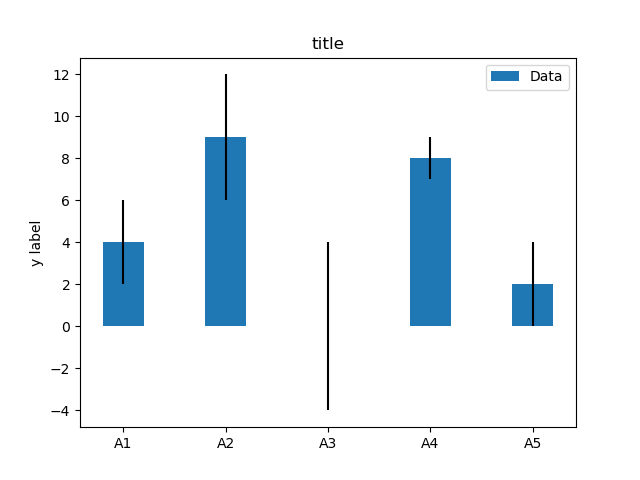
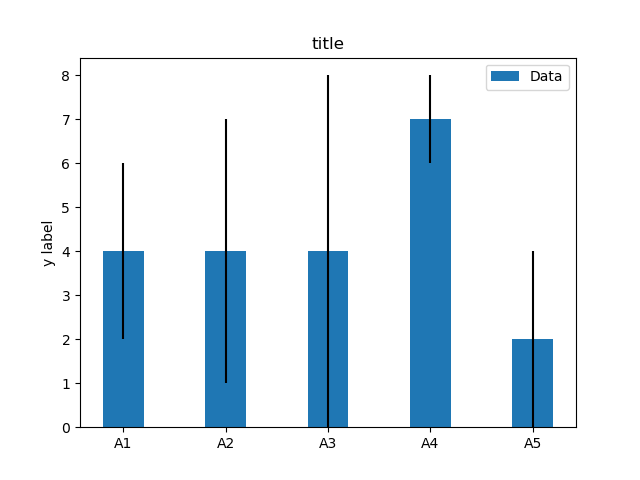
first commit

diff --git a/example.py b/example.py
@@ -2,7 +2,7 @@ import numpy as np
 import matplotlib.pyplot as plt
 
 labels = ['A1', 'A2', 'A3', 'A4', 'A5']
-m_means = [4,9,0,8,2]
+m_means = [4,4,4,7,2]
 m_std = [2, 3, 4, 1, 2]
 width = 0.40       # the width of the bars
 

diff --git a/README.md b/README.md
@@ -1,4 +1,4 @@
-# Matplotlib no 260 
+# Matplotlib no 261 
 
 python example
 
